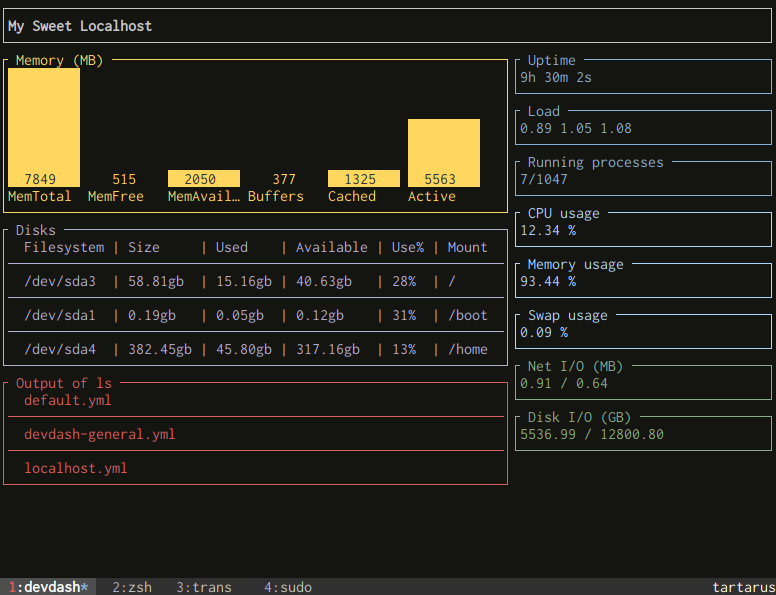
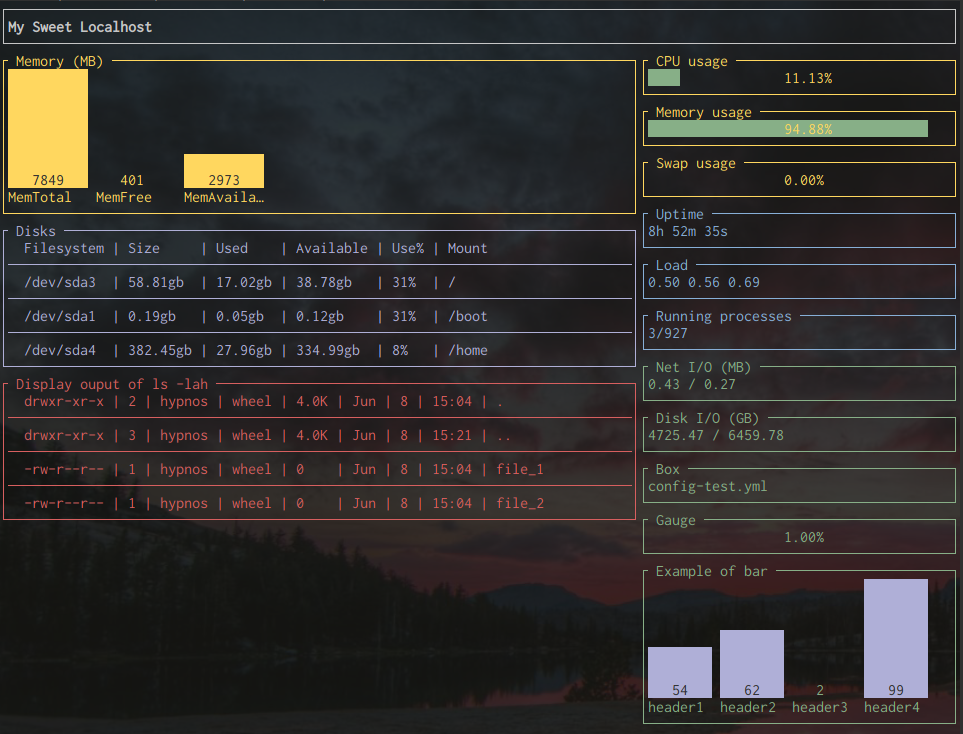
Update configuration

diff --git a/content/getting-started/examples/_index.md b/content/getting-started/examples/_index.md
@@ -3,13 +3,15 @@ title: Examples
 weight: 1000
 ---
 
-Here are some simple examples which will show you how to create dashboards with DevDash, step by step. 
+Here are some simple examples which will show you how to create dashboards with DevDash, step by step.
 
-If you want real use cases are [available as well](/getting-started/use-cases/).
+If you want real use case I use myself, [it's here](/getting-started/use-cases/).
+
+You can find here a [high level explanation of the config system](/reference/), if you wonder what's the heck is all of that.
 
 ## System Monitoring
 
-If you run a Linux distribution, you can create a simple dashboard monitoring your system. It might work with macOS too.
+If you run a Linux distribution, you can create a simple dashboard monitoring your system. It might work with macOS, too.
 
 Notice that you can run any command line and display the output in DevDash! It's how the output of `ls` is displayed here. Running a script works too!
 
@@ -20,8 +22,6 @@ Notice that you can run any command line and display the output in DevDash! It's
 ---
 projects:
   - name: My Sweet Localhost
-    # No need of services here
-    # services:
     widgets:
       - row:
           - col:
@@ -30,21 +30,32 @@ projects:
                 - name: lh.bar_memory
                   options:
                     unit: "mb"
-                    metrics: "MemTotal,MemFree,MemAvailable,Buffers,Cached,Active"
                     color: yellow
                     bar_gap: 1
-                    bar_width: 9
+                    bar_width: 10
                 - name: lh.table_disk
                   options:
                     color: magenta
                 - name: lh.table
                   options:
-                    title: " Output of ls "
-                    command: "ls"
+                    title: " Display ouput of ls -lah "
+                    command: "ls -lah test | tail -n +2"
                     color: red
           - col:
               size: "4"
               elements:
+                - name: lh.gauge_cpu_rate
+                  options:
+                    color: yellow
+                    bar_color: green
+                - name: lh.gauge_memory_rate
+                  options:
+                    color: yellow
+                    bar_color: green
+                - name: lh.gauge_swap_rate
+                  options:
+                    color: yellow
+                    bar_color: green
                 - name: lh.box_uptime
                   options:
                     color: blue
@@ -54,15 +65,6 @@ projects:
                 - name: lh.box_processes
                   options:
                     color: blue
-                - name: lh.box_cpu_rate
-                  options:
-                    color: cyan
-                - name: lh.box_memory_rate
-                  options:
-                    color: cyan
-                - name: lh.box_swap_rate
-                  options:
-                    color: cyan
                 - name: lh.box_net_io
                   options:
                     color: green
@@ -71,9 +73,25 @@ projects:
                   options:
                     color: green
                     unit: "gb"
+                - name: lh.box
+                  options:
+                    color: green
+                    command: "ls"
+                - name: lh.gauge
+                  options:
+                    color: green
+                    bar_color: magenta
+                    command: "sh ./data.sh"
+                - name: lh.bar
+                  options:
+                    color: green
+                    headers: "header1,header2,header3,header4"
+                    bar_color: magenta
+                    command: "sh ./data-bar.sh"
 ```
 {{% /expand%}}
 
+You can go [here if you want to know more about the host service}(/reference/services/host/).
 
 ## Google Analytics
 
@@ -140,9 +158,7 @@ projects:
 
 -------
 
-The second example with Google Analytics shows how to configure the display of your widgets, using options like `border_color`, `text_color`, `bar_width` or `bar_height`. 
-
-It introduces as well the `general` configuration, where you can modify the default the keyboard shortcut to quit devdash (`C-c` is ctrl-c) as well as the refresh cycle of your dashboard's data, in seconds.
+We introduce here the `general` configuration, where you can modify the default keyboard shortcuts to quit devdash (`C-c` is ctrl-c) as well as the refresh cycle of your dashboard's data, in seconds.
 
 You can see a [complete reference of these properties here](/reference/general/).
 

diff --git a/content/reference/services/host/_index.md b/content/reference/services/host/_index.md
@@ -37,7 +37,7 @@ The port `22` is important! Without it, it won't work.
 | Name                 | Description                                               |
 | -------------------- | --------------------------------------------------------- |
 | rh.box_uptime        | Total time the computer has been available                |
-| rh.box_load          | CPU load                                                  |
+| rh.box_load          | CPU load (from boot)                                      |
 | rh.box_net_io        | Network IO                                                |
 | rh.box_disk_io       | Disk IO                                                   |
 | rh.bar_memory        | Display memory information                                |
